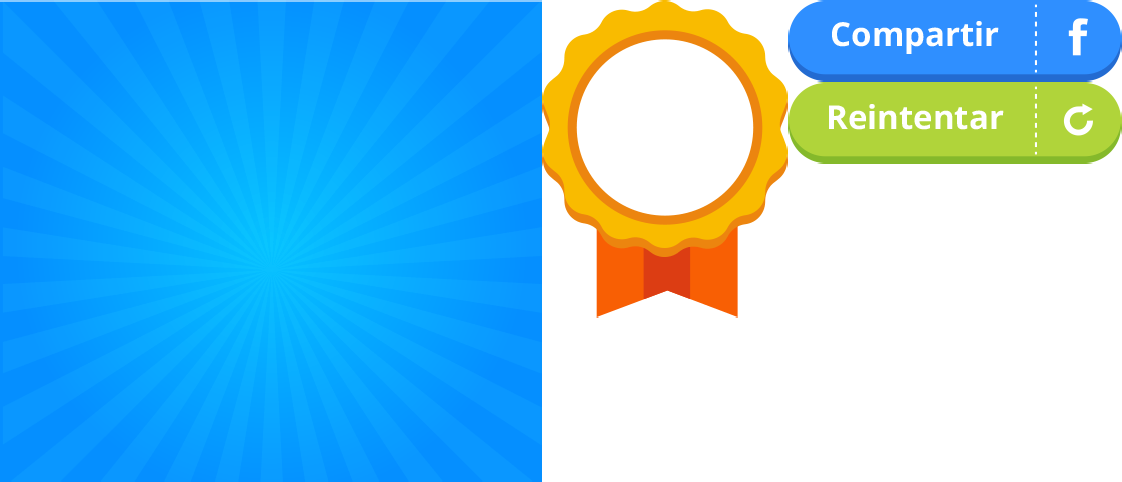
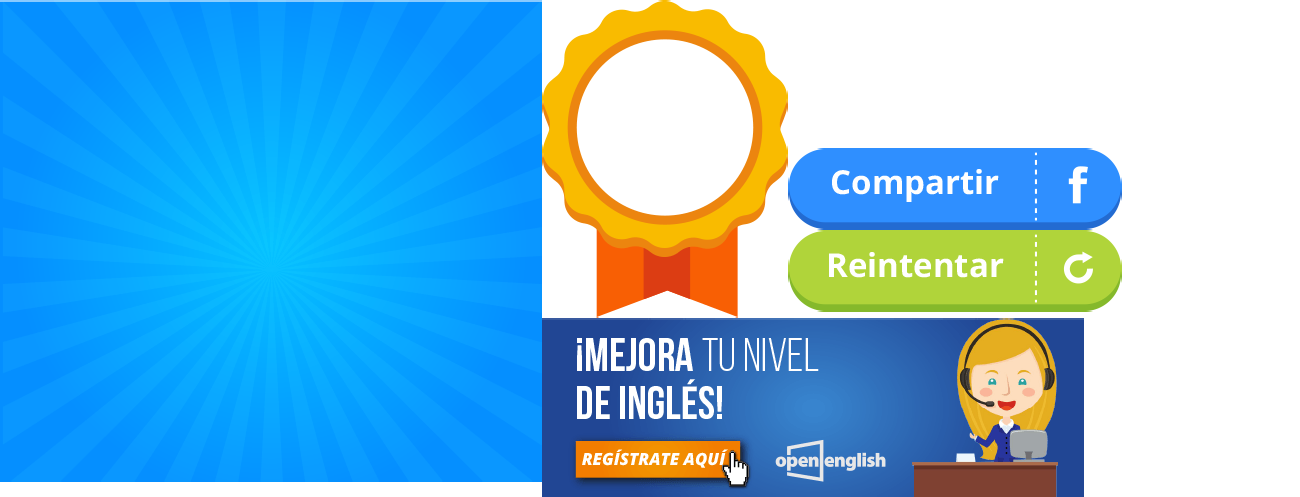
cambios jungleFury y openEnglish2

diff --git a/jungleFury/minigames/jungleFury/js/scenes/mainGame.js b/jungleFury/minigames/jungleFury/js/scenes/mainGame.js
@@ -2,19 +2,11 @@ var mainGame = function(){
     
     var localizationData = {
 		"EN":{
-            "language":"en",
-			"assetReady":"readyEn",
-			"assetGo":"goEn",
-			"assetExcellent":"excEn",
-            "assetGiveUp":"giveUpEn"
+
 		},
 
 		"ES":{
-            "languague":"es",
-			"assetReady":"readyEs",
-			"assetGo":"goEs",
-			"assetExcellent":"excEs",
-            "assetGiveUp":"giveUpEs",
+
             
 		}
 	}
@@ -47,7 +39,7 @@ var mainGame = function(){
     var SPEED = 7
     var GRAVITY_OBJECTS = 4
     var GRAVITY_GUMS = 4
-    var OFFSET_PZ = 73 * 1.5
+    var OFFSET_PZ = 72 * 1.5
     var OBJ_TIME = 1300
     var ITEM_TIME = 800
     
@@ -86,7 +78,7 @@ var mainGame = function(){
         pressed.right = 0
         pressed.left = 0
         pressed.middle = 0
-        scaleSpeed = 0.0025
+        scaleSpeed = 0.0023
         loadSounds()
         levelNumber = 1
         
@@ -341,10 +333,12 @@ var mainGame = function(){
         
         addPoint()
         
-        var lastPosY = piece.world.y
+        var lastPosY = 610
         
         piece.x = treeGroup.x
         piece.y = lastPosY
+        
+        console.log(lastPosY + ' posy')
         
         if(isLeft){
             piece.tween = game.add.tween(piece).to({x : game.world.width + 200, alpha: 0, angle:180 * characterGroup.scale.x},400,Phaser.Easing.linear,true)
@@ -530,10 +524,16 @@ var mainGame = function(){
                 treeGroup.pivotY-= OFFSET_PZ
                 piece.used = true
                 
-                if(piece.tag != 'log'){
-                    piece.x+= piece.width * 0.3   
-                    piece.y-=28
-                }
+                /*var addOffset = 0.287
+                var offY = -29
+                
+                if(piece.tag == 'obstacle'){
+                    piece.x+= piece.width * addOffset
+                    piece.y+=offY
+                }else if(piece.tag == 'obstacleLeft'){
+                    piece.x-= piece.width * addOffset
+                    piece.y+=offY
+                }*/
                 
                 piecesGroup.remove(piece)
                 treeGroup.add(piece)
@@ -552,17 +552,33 @@ var mainGame = function(){
         
         for(var i = 0; i < number; i++){
             
-            var asset = piecesGroup.create(-100,-200,'atlas.jungle',tag)
-            asset.anchor.setTo(0.5,0.5)
+            var asset
+            if(tag == 'log'){
+                asset = piecesGroup.create(0,0,'atlas.jungle',tag)
+                asset.anchor.setTo(0.5,0.5)
+            }else{
+                asset = game.add.group()
+                piecesGroup.add(asset)
+                
+                var branch = asset.create(125,0,'atlas.jungle','branch')
+                branch.anchor.setTo(0.5,0.5)
+                
+                var log = asset.create(0,0,'atlas.jungle','log')
+                log.anchor.setTo(0.5,0.5)
+ 
+                if(tag == 'obstacleLeft'){
+                    branch.scale.x = -1
+                    branch.x-=250
+                }
+            }
+            
+            asset.x =-100
+            asset.y = -200
             asset.alpha = 0
             asset.tag = tag
             asset.scale.setTo(1.5,1.5)
             asset.used = false
             
-            if(isLeft){
-                asset.scale.x = -1.5
-                asset.tag+= 'Left'
-            }
         }
 
     }
@@ -570,7 +586,7 @@ var mainGame = function(){
     function createAssets(){
         
         createPiece('log',10)
-        createPiece('obstacle',10,true)
+        createPiece('obstacleLeft',10,true)
         createPiece('obstacle',10)
         
         for(var i = 0;i<7;i++){

diff --git a/openEnglish2/minigames/openEnglish/js/scenes/resultOpenEnglish.js b/openEnglish2/minigames/openEnglish/js/scenes/resultOpenEnglish.js
@@ -317,16 +317,17 @@ var resultOpenEnglish = function(){
         
         var background = sceneGroup.create(0,0,'atlas.resultScreen','retro-fondo')
         background.width = game.world.width
-        background.height= game.world.height * 0.47
+        background.height= game.world.height * 0.38
         
         var fontStyle = {font: "40px VAGRounded", fontWeight: "bold", fill: "#ffffff", align: "center"}
         
-        var nameText = new Phaser.Text(sceneGroup.game, game.world.centerX, 60, 'Tu puntuación es:', fontStyle)
+        var nameText = new Phaser.Text(sceneGroup.game, game.world.centerX, 50, 'Tu puntuación es:', fontStyle)
         nameText.anchor.setTo(0.5,0.5)
         sceneGroup.add(nameText)  
         
-        var medal = sceneGroup.create(game.world.centerX, background.height * 0.55,'atlas.resultScreen','retro-medalla')
+        var medal = sceneGroup.create(game.world.centerX, background.height * 0.58,'atlas.resultScreen','retro-medalla')
         medal.anchor.setTo(0.5,0.5)
+        medal.scale.setTo(0.85,0.85)
         
         var fontStyle = {font: "85px VAGRounded", fontWeight: "bold", fill: "#5083f8", align: "center"}
         
@@ -342,7 +343,7 @@ var resultOpenEnglish = function(){
         
         var bottomBar = new Phaser.Graphics(game)
         bottomBar.beginFill(0xf5f5f5);
-        bottomBar.drawRect(0, game.world.height, game.world.width, -510);
+        bottomBar.drawRect(0, game.world.height, game.world.width, -game.world.height + background.height);
         bottomBar.endFill();
         bottomBar.anchor.setTo(0,1)
         sceneGroup.add(bottomBar)
@@ -363,7 +364,7 @@ var resultOpenEnglish = function(){
         emoName = iconName
 
  
-        var globe = sceneGroup.create(game.world.centerX, game.world.height - 425,'atlas.resultScreen','retro-nivel')
+        var globe = sceneGroup.create(game.world.centerX, game.world.height - 520,'atlas.resultScreen','retro-nivel')
         globe.anchor.setTo(0.5,0.5)
         globe.scale.setTo(0.85,0.85)
         
@@ -392,19 +393,25 @@ var resultOpenEnglish = function(){
         sceneGroup.add(scoreText) 
         
         var shareBtn = createShareButton()
-        shareBtn.x = game.world.centerX
-        shareBtn.y = game.world.height - 135
+        shareBtn.x = game.world.centerX - 150
+        shareBtn.y = game.world.height - 235
         shareBtn.scale.setTo(0.8,0.8)
         sceneGroup.add(shareBtn)
         
-        var tryAgainButton = sceneGroup.create(game.world.centerX, shareBtn.y + shareBtn.height * 1.6, 'atlas.resultScreen', 'retro-reintentar')
+        var tryAgainButton = sceneGroup.create(game.world.centerX + 150, shareBtn.y, 'atlas.resultScreen', 'retro-reintentar')
 		tryAgainButton.anchor.setTo(0.5, 0.5)
         tryAgainButton.scale.setTo(0.8,0.8)
 
 		tryAgainButton.inputEnabled = true
 		tryAgainButton.events.onInputUp.add(tryAgain)
 
-		tweenScene = game.add.tween(sceneGroup).to({alpha: 1}, 500, Phaser.Easing.Cubic.In, 500, true)
+		var banner = sceneGroup.create(game.world.centerX, game.world.height,'atlas.resultScreen','baner')
+        banner.inputEnabled = true
+        banner.events.onInputDown.add(showPromo)
+        banner.anchor.setTo(0.5,1)
+        
+        tweenScene = game.add.tween(sceneGroup).to({alpha: 1}, 500, Phaser.Easing.Cubic.In, 500, true)
+
 	}
 
 	function initialize(){

diff --git a/jungleFury/minigames/jungleFury/js/main.js b/jungleFury/minigames/jungleFury/js/main.js
@@ -21,7 +21,7 @@ function startGame(){
 	    		//sceneloader.show("instructionsScreen")
 				//sceneloader.show("mathQuiz")
 				//sceneloader.show("resultScreen")
-				sceneloader.show("instructions")
+				sceneloader.show("mainGame")
 	    	}
 
 	      	sceneloader.preload(sceneList, {onLoadFile: onLoadFile, onComplete: onCompleteSceneLoading})

diff --git a/openEnglish2/minigames/openEnglish/js/main.js b/openEnglish2/minigames/openEnglish/js/main.js
@@ -32,6 +32,7 @@ function startGame(){
 	}
 
     function init(){
+        
         var fullWidth = 540
         var fullHeight = 960
 
